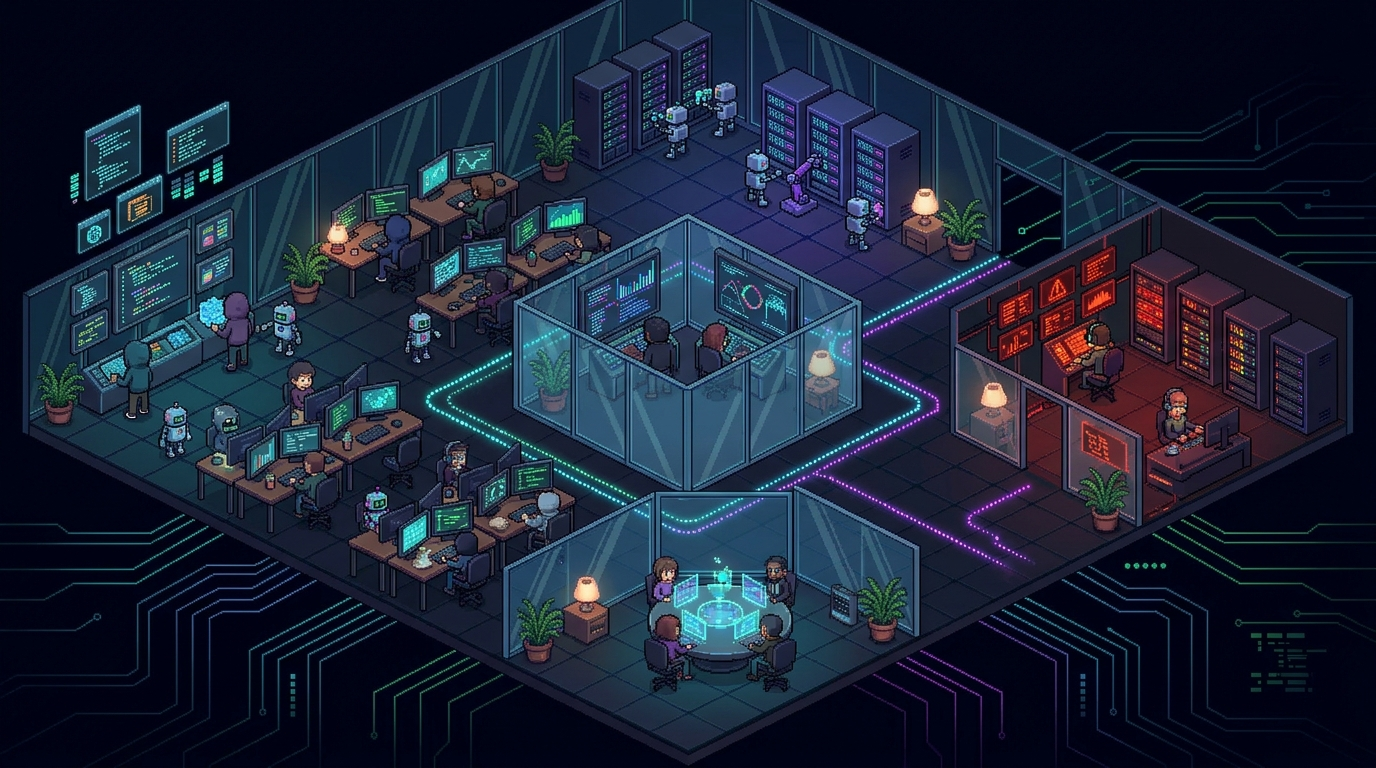
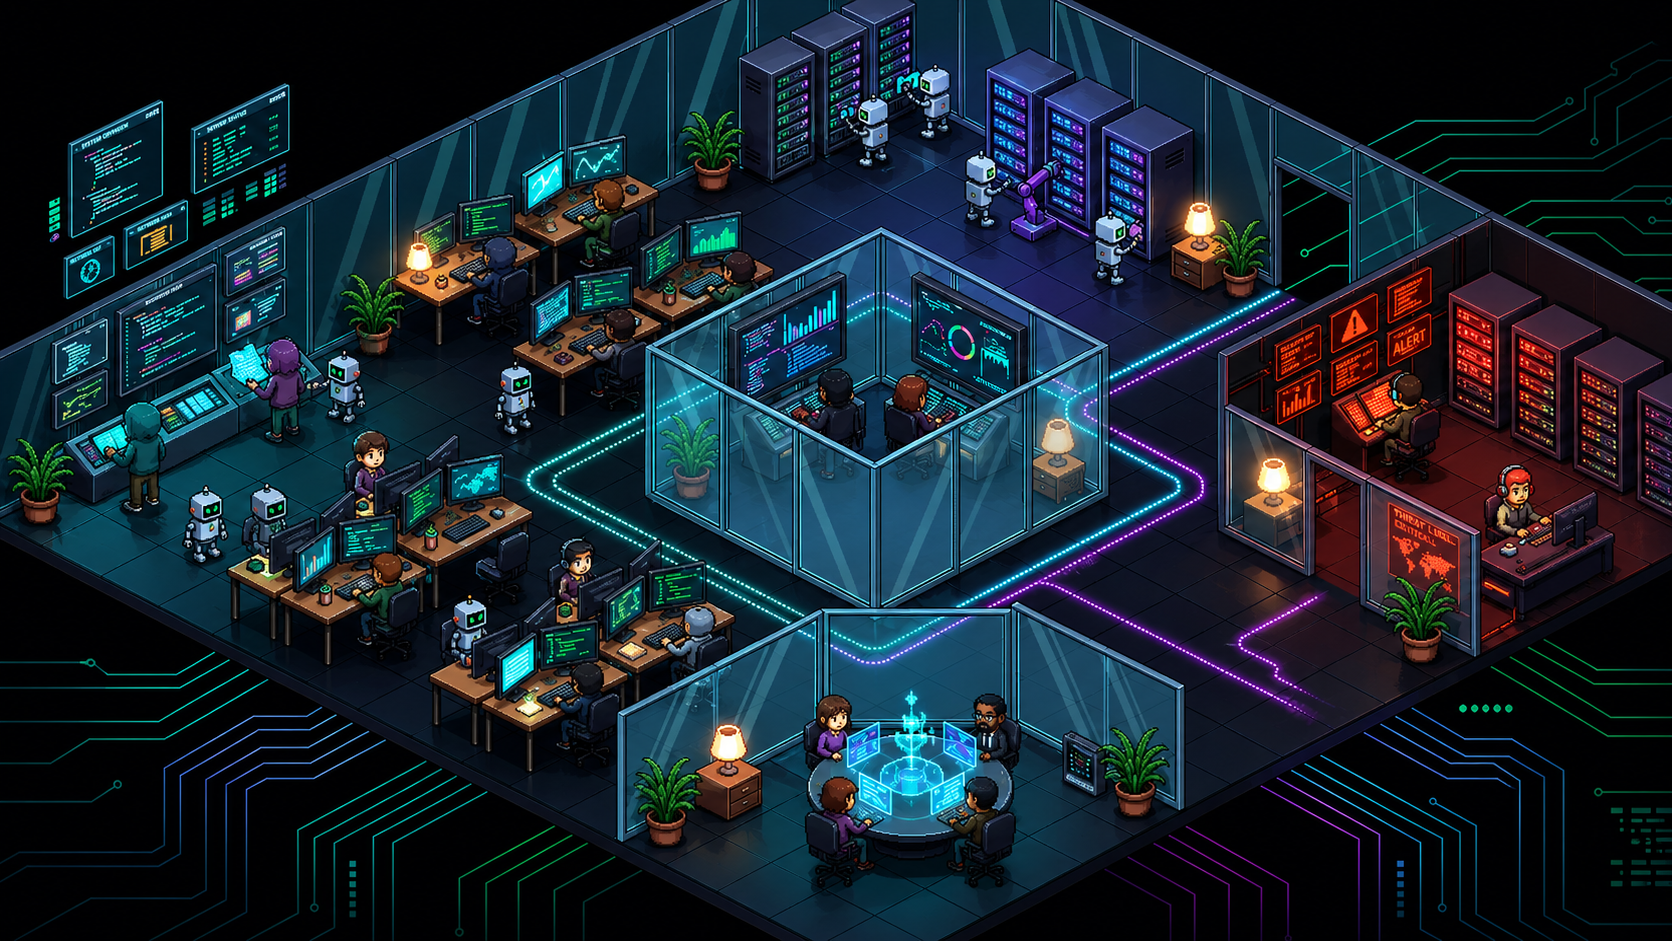
feat(dashboard): integrate SocratiCode status into health checks and UI
- Added SocratiCode status reporting to the health check API, including details on backend status and project path.
- Updated MonitorView to display SocratiCode status with a new health banner.
- Introduced a new service for parsing and building SocratiCode status, with tests to ensure accuracy.
- Enhanced Vite configuration to use environment variable for API origin.
- Added new background images for the dashboard.

diff --git a/dashboard/server/src/services/socraticodeStatus.ts b/dashboard/server/src/services/socraticodeStatus.ts
@@ -1,0 +1,139 @@
+import { execFile } from 'child_process';
+import fs from 'fs/promises';
+import type { SocraticodeStatus } from '@shared/types';
+
+const PROBE_TIMEOUT_MS = 3000;
+const CACHE_TTL_MS = 10000;
+const SKIPPED_STATUS: SocraticodeStatus = {
+  status: 'skipped',
+  backend: 'none',
+  checkedAt: new Date().toISOString(),
+  message: 'SocratiCode wrapper is not configured for this dashboard runtime.',
+};
+
+type SocraticodePayload = {
+  type?: string;
+  backend?: string;
+  projectPath?: string;
+  project_path?: string;
+  status?: string;
+  message?: string;
+  error?: string;
+};
+
+let cachedStatus: SocraticodeStatus | null = null;
+let cachedWrapperPath = '';
+let cachedUntil = 0;
+
+function normalizeBackend(value: unknown): SocraticodeStatus['backend'] {
+  if (value === 'remote' || value === 'local-docker') return value;
+  return 'none';
+}
+
+function extractJsonPayload(payloadText: string): string {
+  const trimmed = payloadText.trim();
+  if (trimmed.startsWith('{')) {
+    const firstLine = trimmed.split(/\r?\n/, 1)[0]?.trim();
+    if (firstLine) return firstLine;
+  }
+
+  for (const line of trimmed.split(/\r?\n/)) {
+    const candidate = line.trim();
+    if (candidate.startsWith('{') && candidate.endsWith('}')) {
+      return candidate;
+    }
+  }
+
+  return trimmed;
+}
+
+function normalizeStatus(payload: SocraticodePayload): SocraticodeStatus['status'] {
+  if (payload.type === 'success' && payload.status === 'active') return 'active';
+  if (payload.type === 'success') return 'unknown';
+  if (payload.type === 'error') return 'unavailable';
+  return 'error';
+}
+
+export function parseSocraticodeStatusPayload(payloadText: string): SocraticodeStatus {
+  const checkedAt = new Date().toISOString();
+
+  try {
+    const payload = JSON.parse(extractJsonPayload(payloadText)) as SocraticodePayload;
+    const status = normalizeStatus(payload);
+    const backend = status === 'active' || status === 'unknown'
+      ? normalizeBackend(payload.backend || 'remote')
+      : 'none';
+
+    return {
+      status,
+      backend,
+      projectPath: payload.projectPath || payload.project_path,
+      checkedAt,
+      message: payload.message || payload.error,
+    };
+  } catch (error) {
+    return {
+      status: 'error',
+      backend: 'none',
+      checkedAt,
+      message: 'SocratiCode status returned invalid JSON.',
+    };
+  }
+}
+
+async function wrapperExists(wrapperPath: string): Promise<boolean> {
+  try {
+    await fs.access(wrapperPath);
+    return true;
+  } catch (error) {
+    return false;
+  }
+}
+
+async function probeSocraticodeStatus(wrapperPath: string): Promise<SocraticodeStatus> {
+  if (!wrapperPath || !(await wrapperExists(wrapperPath))) {
+    return { ...SKIPPED_STATUS, checkedAt: new Date().toISOString() };
+  }
+
+  return new Promise((resolve) => {
+    execFile(
+      wrapperPath,
+      ['codebase_status'],
+      {
+        timeout: PROBE_TIMEOUT_MS,
+        env: {
+          ...process.env,
+          SOCRATICODE_SSH_TIMEOUT: process.env.SOCRATICODE_SSH_TIMEOUT || '2',
+        },
+      },
+      (error, stdout, stderr) => {
+        if (stdout.trim()) {
+          resolve(parseSocraticodeStatusPayload(stdout.trim()));
+          return;
+        }
+
+        resolve({
+          status: error?.killed ? 'error' : 'unavailable',
+          backend: 'none',
+          checkedAt: new Date().toISOString(),
+          message: error?.killed
+            ? 'SocratiCode status probe timed out.'
+            : (stderr.trim() || error?.message || 'SocratiCode status probe did not return output.'),
+        });
+      }
+    );
+  });
+}
+
+export async function buildSocraticodeStatus(wrapperPath: string): Promise<SocraticodeStatus> {
+  const now = Date.now();
+  if (cachedStatus && cachedWrapperPath === wrapperPath && cachedUntil > now) {
+    return cachedStatus;
+  }
+
+  const status = await probeSocraticodeStatus(wrapperPath);
+  cachedStatus = status;
+  cachedWrapperPath = wrapperPath;
+  cachedUntil = now + CACHE_TTL_MS;
+  return status;
+}

diff --git a/dashboard/server/src/services/socraticodeStatus.test.ts b/dashboard/server/src/services/socraticodeStatus.test.ts
@@ -1,0 +1,55 @@
+import test from 'node:test';
+import assert from 'node:assert/strict';
+import { buildSocraticodeStatus, parseSocraticodeStatusPayload } from './socraticodeStatus';
+
+test('parseSocraticodeStatusPayload reports active remote backend details', () => {
+  const status = parseSocraticodeStatusPayload(
+    JSON.stringify({
+      type: 'success',
+      method: 'codebase_status',
+      backend: 'remote',
+      projectPath: 'D:\\llm',
+      status: 'active',
+      message: 'Codebase is indexed and ready',
+    })
+  );
+
+  assert.equal(status.status, 'active');
+  assert.equal(status.backend, 'remote');
+  assert.equal(status.projectPath, 'D:\\llm');
+  assert.equal(status.message, 'Codebase is indexed and ready');
+  assert.match(status.checkedAt, /^\d{4}-\d{2}-\d{2}T/);
+});
+
+test('parseSocraticodeStatusPayload reports unavailable for error payloads', () => {
+  const status = parseSocraticodeStatusPayload(
+    JSON.stringify({
+      type: 'error',
+      method: 'codebase_status',
+      error: 'Remote and local Docker SocratiCode are unavailable.',
+    })
+  );
+
+  assert.equal(status.status, 'unavailable');
+  assert.equal(status.backend, 'none');
+  assert.equal(status.message, 'Remote and local Docker SocratiCode are unavailable.');
+});
+
+test('parseSocraticodeStatusPayload tolerates PowerShell progress noise after JSON', () => {
+  const status = parseSocraticodeStatusPayload([
+    '{"type":"success","method":"codebase_status","message":"Codebase is indexed and ready","status":"active"}',
+    '#< CLIXML',
+    '<Objs><Obj S="progress"></Obj></Objs>',
+  ].join('\n'));
+
+  assert.equal(status.status, 'active');
+  assert.equal(status.backend, 'remote');
+  assert.equal(status.message, 'Codebase is indexed and ready');
+});
+
+test('buildSocraticodeStatus reports skipped when wrapper is not configured', async () => {
+  const status = await buildSocraticodeStatus('');
+
+  assert.equal(status.status, 'skipped');
+  assert.equal(status.backend, 'none');
+});

diff --git a/dashboard/client/src/views/MonitorView.tsx b/dashboard/client/src/views/MonitorView.tsx
@@ -1,6 +1,6 @@
 import React from 'react';
 import ReactMarkdown from 'react-markdown';
-import { AlertCircle, Terminal, Loader2, LayoutDashboard } from 'lucide-react';
+import { AlertCircle, Terminal, Loader2, LayoutDashboard, Network } from 'lucide-react';
 import type { HealthStatus, RunDetail } from '../../../shared/types';
 
 export interface MonitorViewProps {
@@ -39,7 +39,17 @@ export function MonitorView({
   const healthSummary =
     health?.status === 'warning'
       ? 'The monitor is still available, but one or more file-system dependencies need attention.'
-      : 'The monitor may not reflect current run state until the underlying dashboard wiring is restored.';
+      : health?.status === 'error'
+        ? 'The monitor may not reflect current run state until the underlying dashboard wiring is restored.'
+        : 'Dashboard API, file watcher, and runtime diagnostics are reporting normally.';
+  const socraticodeLabel =
+    !health?.socraticode
+      ? 'not checked'
+      : health.socraticode.backend === 'none'
+        ? health.socraticode.status
+        : `${health.socraticode.status} via ${health.socraticode.backend}`;
+  const socraticodeDetail =
+    health?.socraticode?.projectPath || health?.socraticode?.message || 'No project path reported';
 
   return (
     <div>
@@ -54,7 +64,7 @@ export function MonitorView({
         </div>
       )}
 
-      {health && health.status !== 'ok' && (
+      {health && (
         <div className="card health-banner" style={{ marginBottom: '24px', borderColor: healthAccent }}>
           <div className="health-banner-header">
             <div className="health-banner-title-row">
@@ -74,6 +84,11 @@ export function MonitorView({
             <span>Runs directory: {health.runsDirExists ? 'available' : 'missing'}</span>
             <span>Logs directory: {health.logsDirExists ? 'available' : 'missing'}</span>
             <span>Watcher: {health.watcherActive ? 'active' : 'inactive'}</span>
+          </div>
+          <div className="health-banner-runtime">
+            <Network size={14} />
+            <span>SocratiCode: {socraticodeLabel}</span>
+            <span className="health-banner-runtime-detail">{socraticodeDetail}</span>
           </div>
         </div>
       )}

diff --git a/dashboard/server/src/routes/health.ts b/dashboard/server/src/routes/health.ts
@@ -2,8 +2,10 @@ import { Router } from 'express';
 import { config } from '../config';
 import { globalWatcher } from '../services/watcher';
 import { TASK_ID_PATTERN } from '../pathSecurity';
-import type { HealthStatus } from '@shared/types';
+import { buildSocraticodeStatus } from '../services/socraticodeStatus';
+import type { HealthStatus, SocraticodeStatus } from '@shared/types';
 import fs from 'fs/promises';
+import path from 'path';
 
 const router = Router();
 
@@ -19,6 +21,7 @@ export interface HealthStatusInput {
   watcherActive: boolean;
   watcherDebounceMs?: number;
   totalRuns?: number;
+  socraticode?: SocraticodeStatus;
   error?: string;
 }
 
@@ -59,6 +62,12 @@ export function buildHealthStatus(input: HealthStatusInput): HealthStatus {
       active: input.watcherActive,
       debounceMs: input.watcherDebounceMs ?? 0,
     },
+    socraticode: input.socraticode ?? {
+      status: 'skipped',
+      backend: 'none',
+      checkedAt: new Date().toISOString(),
+      message: 'SocratiCode status was not checked.',
+    },
     error: input.error,
   };
 }
@@ -72,12 +81,16 @@ router.get('/', async (req, res) => {
     const entries = await fs.readdir(config.runsDir);
     runsDirExists = true;
     totalRuns = entries.filter(e => TASK_ID_PATTERN.test(e)).length;
-  } catch (e) {}
+  } catch (e) { }
 
   try {
     await fs.access(config.logsDir);
     logsDirExists = true;
-  } catch (e) {}
+  } catch (e) { }
+
+  const socraticode = await buildSocraticodeStatus(
+    path.join(config.aiOfficeRoot, 'scripts', 'socraticode-tcp-wrapper.sh')
+  );
 
   const status = buildHealthStatus({
     aiOfficeRoot: config.aiOfficeRoot,
@@ -91,6 +104,7 @@ router.get('/', async (req, res) => {
     watcherActive: globalWatcher.isActive(),
     watcherDebounceMs: globalWatcher.getDebounceMs(),
     totalRuns,
+    socraticode,
   });
 
   res.json(status);

diff --git a/dashboard/client/src/styles/globals.css b/dashboard/client/src/styles/globals.css
@@ -403,6 +403,25 @@ body {
   vertical-align: middle;
 }
 
+.health-banner-runtime {
+  display: flex;
+  align-items: center;
+  gap: 8px;
+  margin-top: 14px;
+  padding-top: 12px;
+  border-top: 1px solid var(--border-color);
+  font-size: 12px;
+  color: var(--text-secondary);
+}
+
+.health-banner-runtime-detail {
+  min-width: 0;
+  overflow: hidden;
+  text-overflow: ellipsis;
+  white-space: nowrap;
+  color: var(--text-muted);
+}
+
 .monitor-run-header {
   display: flex;
   align-items: flex-start;

diff --git a/dashboard/shared/types.ts b/dashboard/shared/types.ts
@@ -277,6 +277,17 @@ export interface AnalyticsResponse {
   topFailureReasons: FailureReasonStat[];
 }
 
+export type SocraticodeConnectionStatus = "active" | "unknown" | "unavailable" | "error" | "skipped";
+export type SocraticodeBackend = "remote" | "local-docker" | "none";
+
+export interface SocraticodeStatus {
+  status: SocraticodeConnectionStatus;
+  backend: SocraticodeBackend;
+  projectPath?: string;
+  checkedAt: string;
+  message?: string;
+}
+
 export interface HealthStatus {
   ok: boolean;
   status: "ok" | "warning" | "error";
@@ -300,6 +311,7 @@ export interface HealthStatus {
     active: boolean;
     debounceMs: number;
   };
+  socraticode: SocraticodeStatus;
   error?: string;
 }
 

diff --git a/dashboard/server/src/routes/health.test.ts b/dashboard/server/src/routes/health.test.ts
@@ -13,6 +13,13 @@ test('buildHealthStatus includes diagnostics needed to inspect dashboard wiring'
     runsDirExists: true,
     logsDirExists: false,
     watcherActive: true,
+    socraticode: {
+      status: 'active',
+      backend: 'remote',
+      projectPath: 'D:\\llm',
+      checkedAt: '2026-06-08T00:00:00.000Z',
+      message: 'Codebase is indexed and ready',
+    },
   });
 
   assert.equal(status.ok, true);
@@ -20,6 +27,9 @@ test('buildHealthStatus includes diagnostics needed to inspect dashboard wiring'
   assert.equal(status.paths.runsDir, '/workspace/ai-dev-office/runs');
   assert.equal(status.config.logTailLines, 500);
   assert.equal(status.watcher.active, true);
+  assert.equal(status.socraticode.status, 'active');
+  assert.equal(status.socraticode.backend, 'remote');
+  assert.equal(status.socraticode.projectPath, 'D:\\llm');
   assert.match(status.timestamp, /^\d{4}-\d{2}-\d{2}T/);
 });
 

diff --git a/dashboard/client/vite.config.ts b/dashboard/client/vite.config.ts
@@ -2,6 +2,8 @@ import { defineConfig } from 'vite'
 import react from '@vitejs/plugin-react'
 import path from 'path'
 
+const dashboardApiOrigin = process.env.DASHBOARD_API_ORIGIN || 'http://localhost:4310'
+
 // https://vitejs.dev/config/
 export default defineConfig({
   plugins: [react()],
@@ -13,7 +15,7 @@ export default defineConfig({
   server: {
     port: 3000,
     proxy: {
-      '/api': 'http://localhost:4310'
+      '/api': dashboardApiOrigin
     }
   }
 })